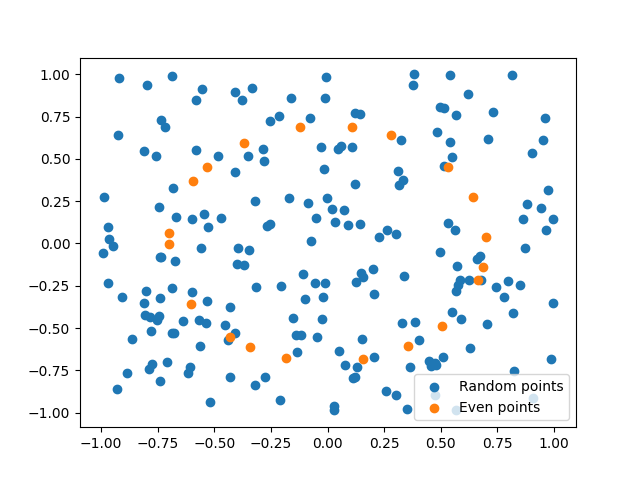
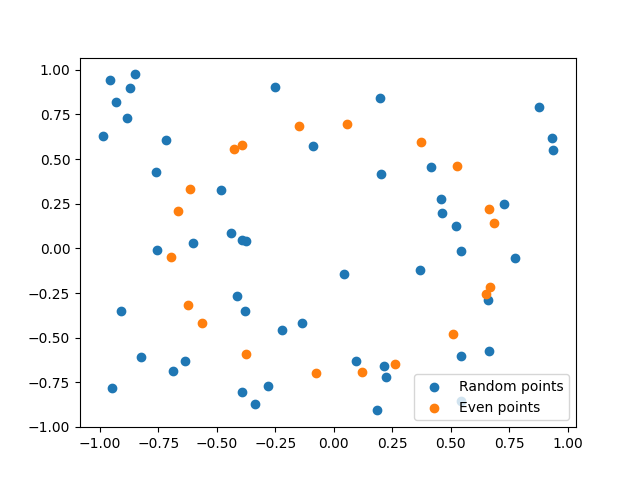
Output washboard json file

diff --git a/examples/washboard_test.py b/examples/washboard_test.py
@@ -1,0 +1,194 @@
+import sys
+import os
+
+sys.path.append(os.getcwd())
+
+from gudhi import RipsComplex
+import numpy as np
+from phimaker import compute_ensemble
+import math
+import matplotlib.pyplot as plt
+import random
+import json
+
+N = 50
+N_nice = 20
+max_diagram_dim = 1
+jitter_strength = 0.05
+
+random.seed(42)
+np.random.seed(42)
+
+
+def get_jitterer_circle_point(phase, jit):
+    random_phase = random.random() * jit
+    return [
+        0.7 * math.cos(2 * math.pi * (phase + random_phase)),
+        0.7 * math.sin(2 * math.pi * (phase + random_phase)),
+    ]
+
+
+nice_points = np.array(
+    [get_jitterer_circle_point(i / N_nice, jitter_strength) for i in range(N_nice)]
+)
+
+random_points = np.random.rand(N, 2) * 2 - 1
+
+pts = np.vstack((nice_points, random_points))
+
+truncation = math.sqrt(2)
+
+
+def is_nice_point(idx):
+    return idx < len(nice_points)
+
+
+def is_nice_smplx(smplx):
+    return all([is_nice_point(pt) for pt in smplx])
+
+
+rcomp = RipsComplex(points=pts, max_edge_length=truncation)
+
+
+# Build simplex tree
+simplex_tree = rcomp.create_simplex_tree(max_dimension=max_diagram_dim + 1)
+# Build second simplex tree with index as filtration value
+s_tree2 = simplex_tree.copy()
+entrance_times = []
+dimensions = []
+for idx, f_val in enumerate(simplex_tree.get_filtration()):
+    s_tree2.assign_filtration(f_val[0], idx)
+    entrance_times.append(f_val[1])
+    dimensions.append(len(f_val[0]) - 1)
+# Build up matrix to pass to phimaker
+matrix = []
+for idx, f_val in enumerate(s_tree2.get_filtration()):
+    smplx = f_val[0]
+    sparse_bdry = [int(face_idx) for _, face_idx in s_tree2.get_boundaries(smplx)]
+    annotated_col = (is_nice_smplx(smplx), sorted(sparse_bdry))
+    matrix.append(annotated_col)
+# Report
+print("Got matrix")
+print(len(matrix))
+# Compute diagrams
+dgms = compute_ensemble(matrix)
+print("Done")
+# Plot point
+plt.scatter(random_points[:, 0], random_points[:, 1])
+plt.scatter(nice_points[:, 0], nice_points[:, 1])
+plt.legend(["Random points", "Even points"], loc="lower right")
+plt.savefig("fig/pointcloud.png")
+
+
+# Create washboard json file
+
+
+def build_washboard_object(
+    dgms, max_diagram_dim, truncation, dimensions, entrance_times
+):
+    def make_pairing_obj(dgm, additional_max_dim=0, dim_shift=0):
+        pairings = {"paired": list(dgm.paired), "unpaired": list(dgm.unpaired)}
+        pairings = remove_trivial_pairings(pairings)
+        pairings = filter_by_dimension(pairings, additional_max_dim, dim_shift)
+        pairings = group_by_dimension(pairings, additional_max_dim, dim_shift)
+        return pairings
+
+    # Remove pairings with 0 lifetime
+    def remove_trivial_pairings(pairings):
+        new_pairings = []
+        for pairing in pairings["paired"]:
+            if entrance_times[pairing[0]] == entrance_times[pairing[1]]:
+                continue
+            new_pairings.append(pairing)
+        pairings["paired"] = new_pairings
+        return pairings
+
+    # Remove pairings in too high a dimension
+    def filter_by_dimension(pairings, additional_max_dim, dim_shift):
+        new_paired = []
+        new_unpaired = []
+        for pairing in pairings["paired"]:
+            dim = dimensions[pairing[0]] - dim_shift
+            if dim > max_diagram_dim + additional_max_dim:
+                continue
+            new_paired.append(pairing)
+        for unpaired in pairings["unpaired"]:
+            dim = dimensions[unpaired] - dim_shift
+            # Only add additional_max_dim to pairings
+            if dim > max_diagram_dim:
+                continue
+            new_unpaired.append(unpaired)
+        pairings["paired"] = new_paired
+        pairings["unpaired"] = new_unpaired
+        return pairings
+
+    def group_by_dimension(pairings, additional_max_dim, dim_shift):
+        diagrams_by_dimension = [
+            [] for _ in range(max_diagram_dim + additional_max_dim + 1)
+        ]
+        for pairing in pairings["paired"]:
+            dim = dimensions[pairing[0]] - dim_shift
+            diagrams_by_dimension[dim].append(pairing)
+        for unpaired in pairings["unpaired"]:
+            dim = dimensions[unpaired] - dim_shift
+            diagrams_by_dimension[dim].append([unpaired])
+        return diagrams_by_dimension
+
+    def add_empty_relations(all_pairings, key):
+        base_pairings = all_pairings[key]
+        for d, diagram_d in enumerate(base_pairings):
+            for idx, pairing in enumerate(diagram_d):
+                base_pairings[d][idx] = [pairing, {}]
+        return base_pairings
+
+    def fill_relations(all_pairings, key):
+        base_pairings = all_pairings[key]
+        for d, diagram_d in enumerate(base_pairings):
+            for idx, pairing_relations in enumerate(diagram_d):
+                pairing = pairing_relations[0]
+                relations = compute_relations(all_pairings, key, pairing)
+                base_pairings[d][idx] = [pairing, relations]
+        return base_pairings
+
+    def compute_relations(all_pairings, base_key, pairing):
+        relations = {}
+        for key in all_pairings.keys():
+            if key == base_key:
+                continue
+            these_relations = []
+            diagram = all_pairings[key]
+            for d, diagram_d in enumerate(diagram):
+                for idx, other_pairing in enumerate(diagram_d):
+                    if not set(pairing).isdisjoint(other_pairing[0]):
+                        these_relations.append([d, idx])
+            relations[key] = these_relations
+        return relations
+
+    obj = {}
+    obj["max_dim"] = max_diagram_dim
+    obj["pseudo_inf"] = truncation * 1.05
+    obj["dimensions"] = dimensions
+    obj["filtration"] = entrance_times
+    pairings = {
+        "codomain": make_pairing_obj(dgms.f),
+        "domain": make_pairing_obj(dgms.g),
+        "image": make_pairing_obj(dgms.im),
+        "kernel": make_pairing_obj(dgms.ker, dim_shift=1),
+        "cokernel": make_pairing_obj(dgms.cok),
+        "relative": make_pairing_obj(dgms.rel, additional_max_dim=1),
+    }
+    for key in pairings.keys():
+        pairings[key] = add_empty_relations(pairings, key)
+    for key in pairings.keys():
+        pairings[key] = fill_relations(pairings, key)
+    obj["pairings"] = pairings
+    return obj
+
+
+washboard_object = build_washboard_object(
+    dgms, max_diagram_dim, truncation, dimensions, entrance_times
+)
+json_str = json.dumps(washboard_object)
+
+with open("data.json", "w") as f:
+    f.write(json_str)
